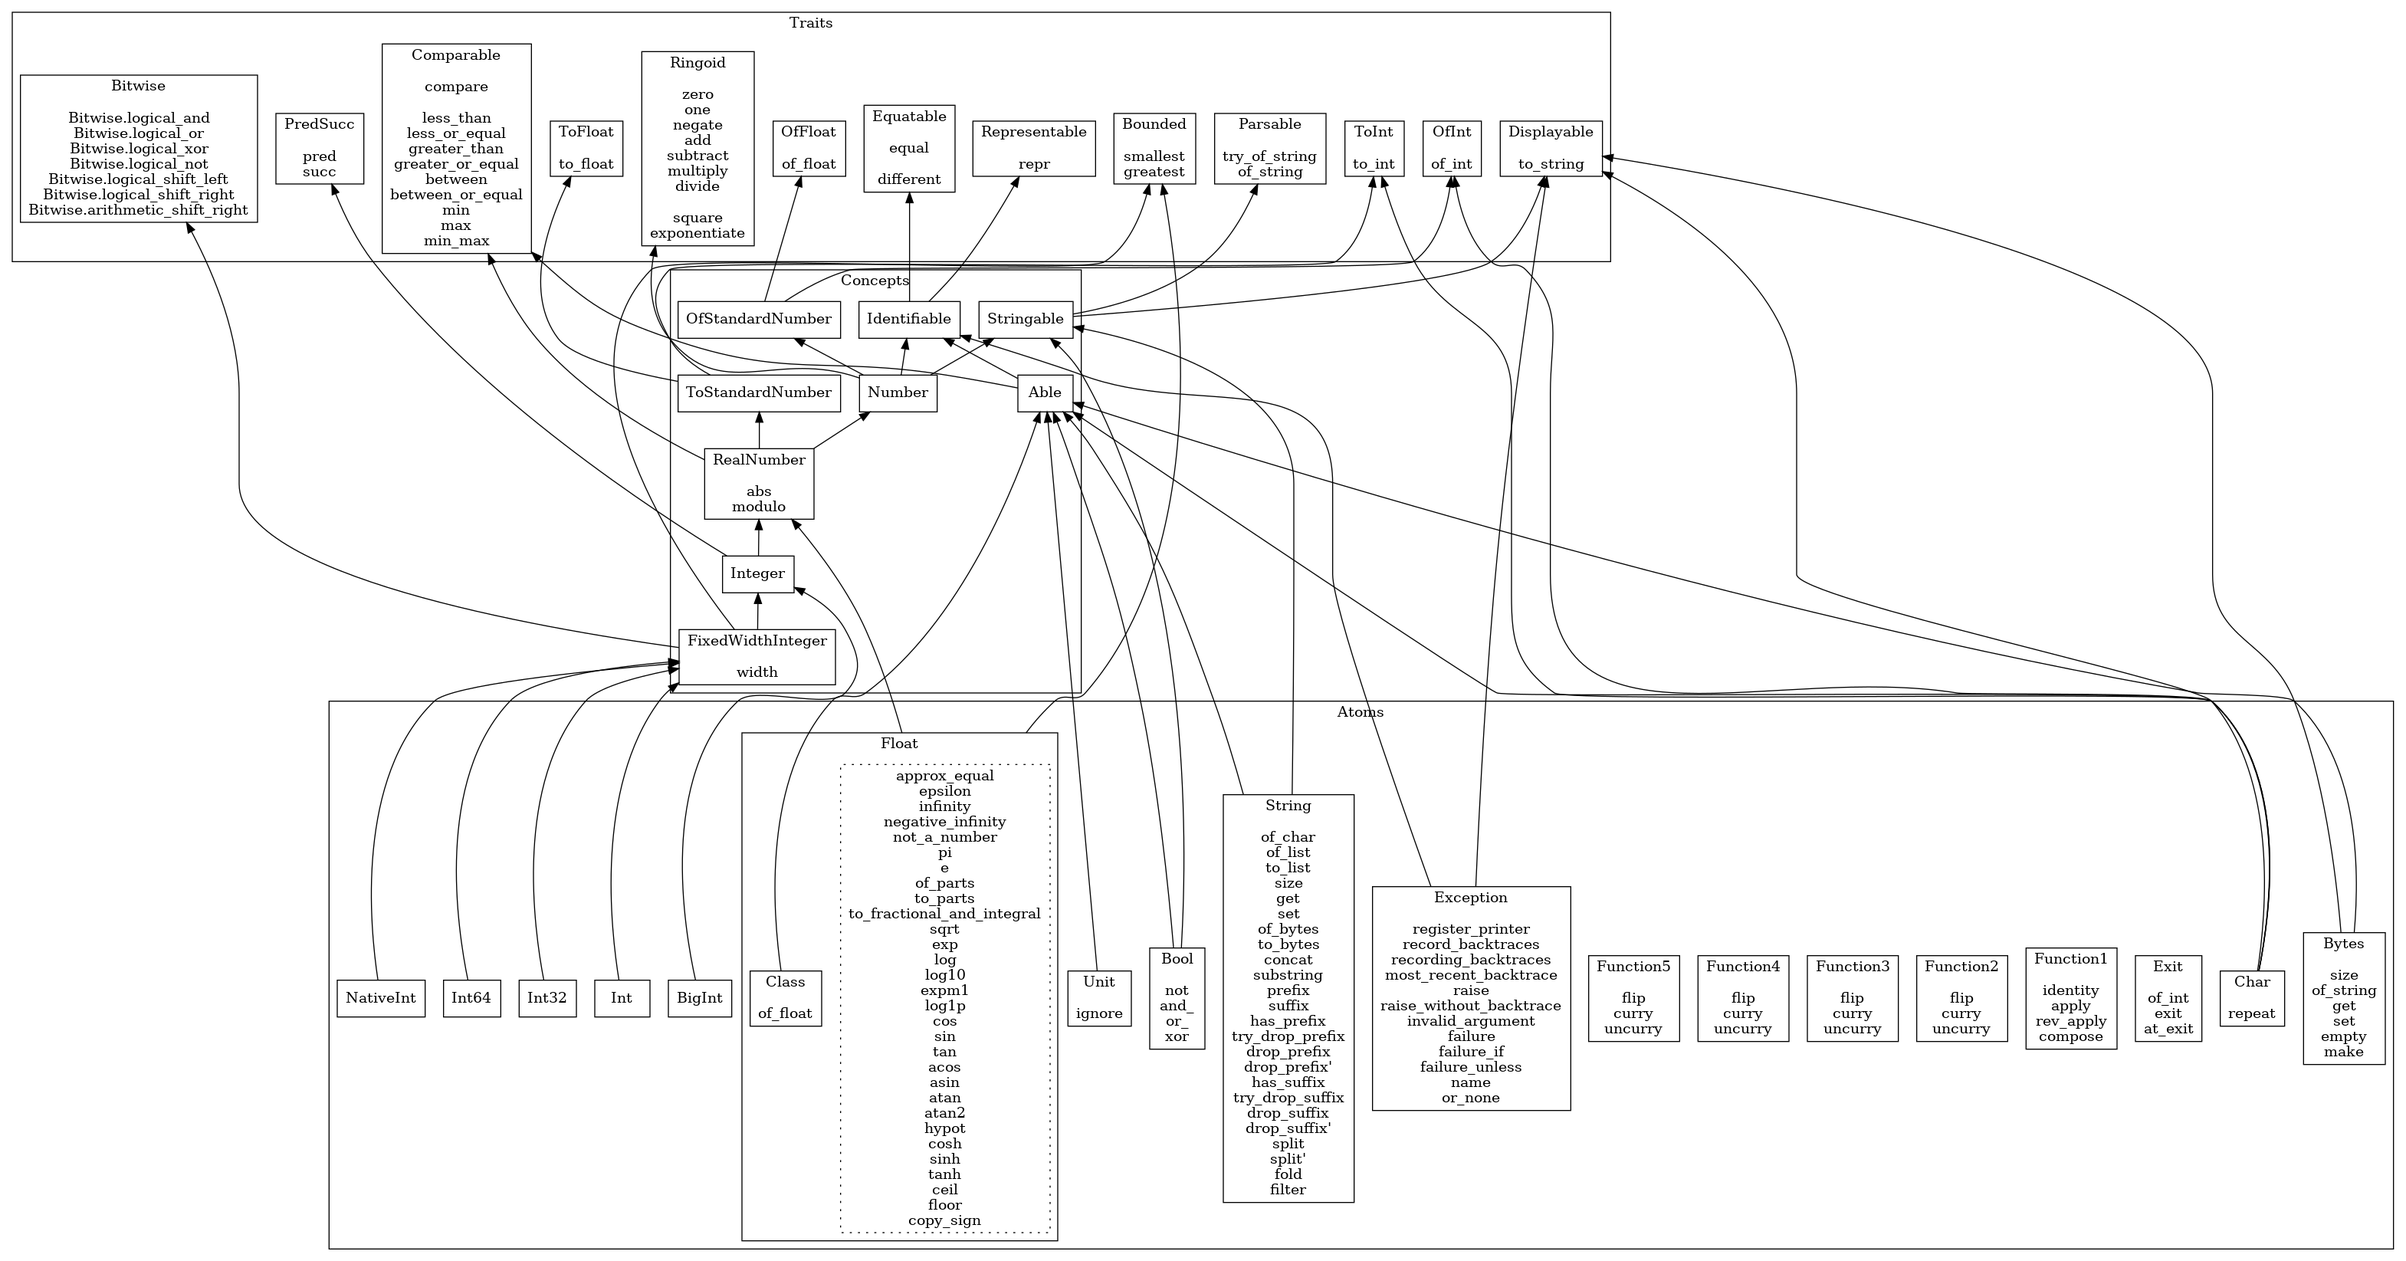
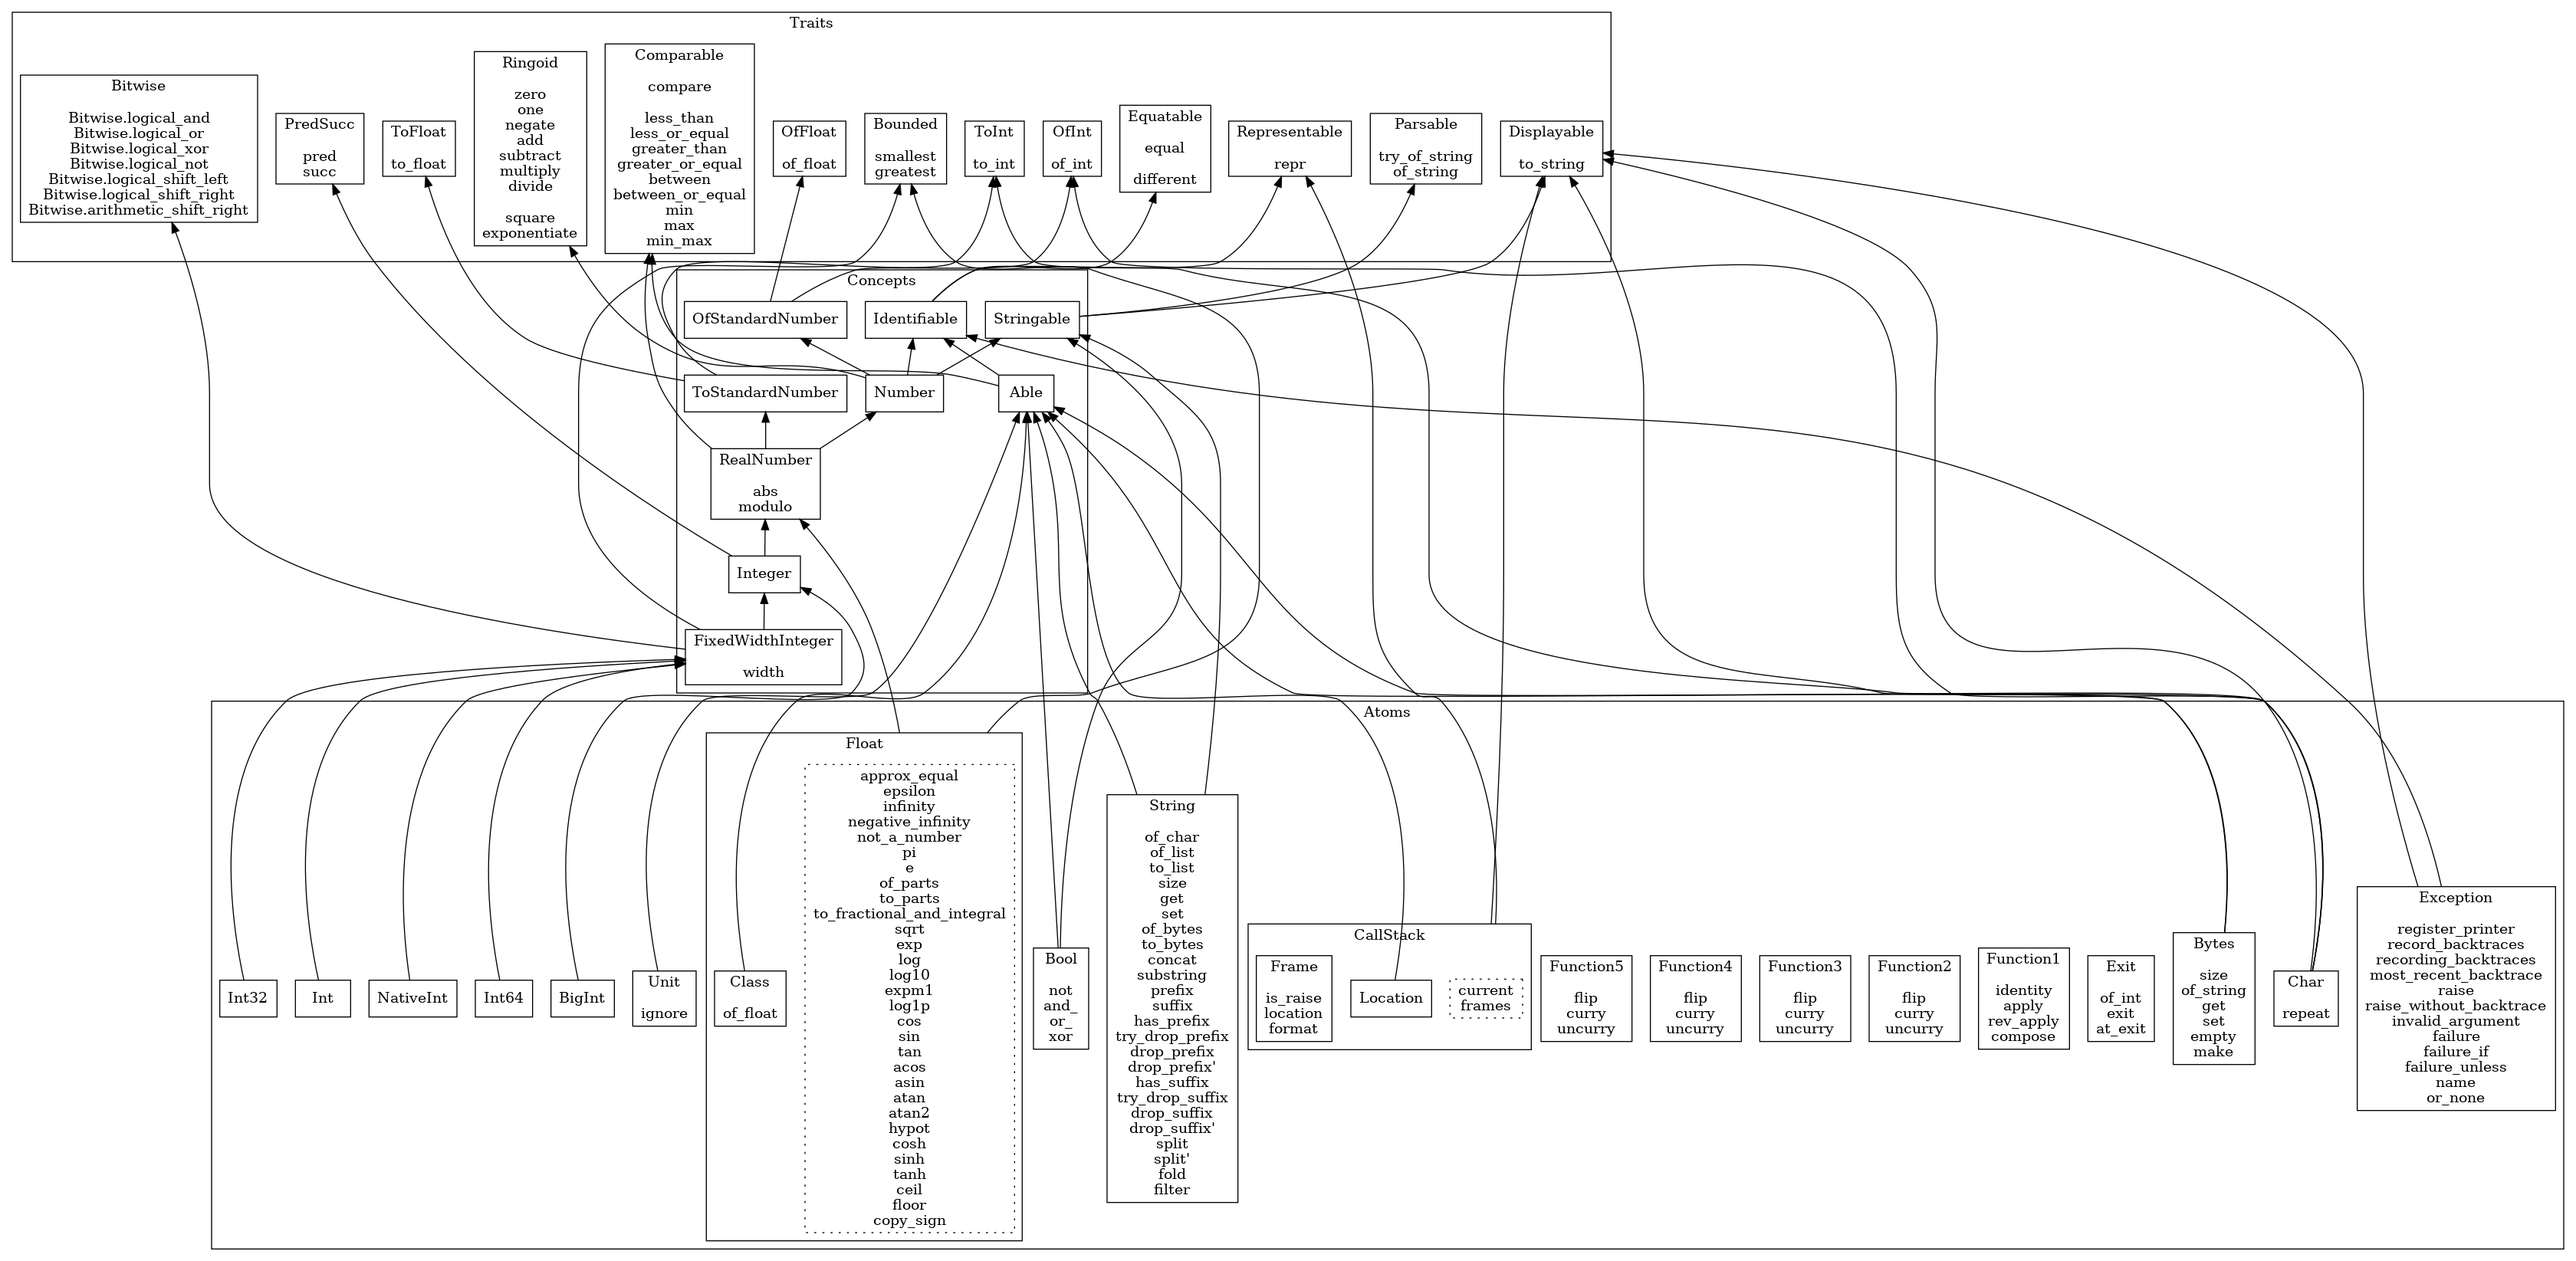
Generate specification for type CallStack

diff --git a/src/geni.py b/src/geni.py
@@ -487,10 +487,10 @@ class Type:
             else:
                 arguments = " of ({})".format(" * ".join(exn.arguments))
             yield f"exception {exn.name}{arguments}"
-        for value in self.values:
-            yield f"val {value.name}: {value.value_type(self.arity, 't')}"
         for type_ in self.types:
             yield mod_spec(type_.name, type_.specification_items)
+        for value in self.values:
+            yield f"val {value.name}: {value.value_type(self.arity, 't')}"
 
     @property
     def implementation_items(self):
@@ -1135,6 +1135,49 @@ fixed_width_integer = concept(
 )
 
 ###### TYPES ######
+
+call_stack = atom(
+    "CallStack",
+    type="Pervasives.OCamlStandard.Printexc.raw_backtrace",
+    bases=[displayable, representable],
+    values=[
+        val("current", {"?max_size": "int"}, "unit", t),
+        # @feature? val size: t -> int
+        # @feature? val frame: t -> int -> Frame.t
+        val("frames", t, "Frame.t list"),
+    ],
+    types=[
+        Type(
+            prefix="Atoms.CallStack",
+            name="Location",
+            type_params="",
+            type="Pervasives.OCamlStandard.Printexc.location = {filename: string; line_number: int; start_char: int; end_char: int}",
+            arity=0,
+            bases=[able],
+            exceptions=[],
+            operators=[],
+            values=[],
+            types=[],
+        ),
+        Type(
+            prefix="Atoms.CallStack",
+            name="Frame",
+            type_params="",
+            type="Pervasives.OCamlStandard.Printexc.backtrace_slot",
+            arity=0,
+            bases=[],
+            exceptions=[],
+            operators=[],
+            values=[
+                val("is_raise", t, "bool"),
+                # @feature val is_inline: t -> bool
+                val("location", t, "Location.t option"),
+                val("format", "int", t, "string option"),
+            ],
+            types=[],
+        ),
+    ],
+)
 
 exception = atom(
     "Exception",
